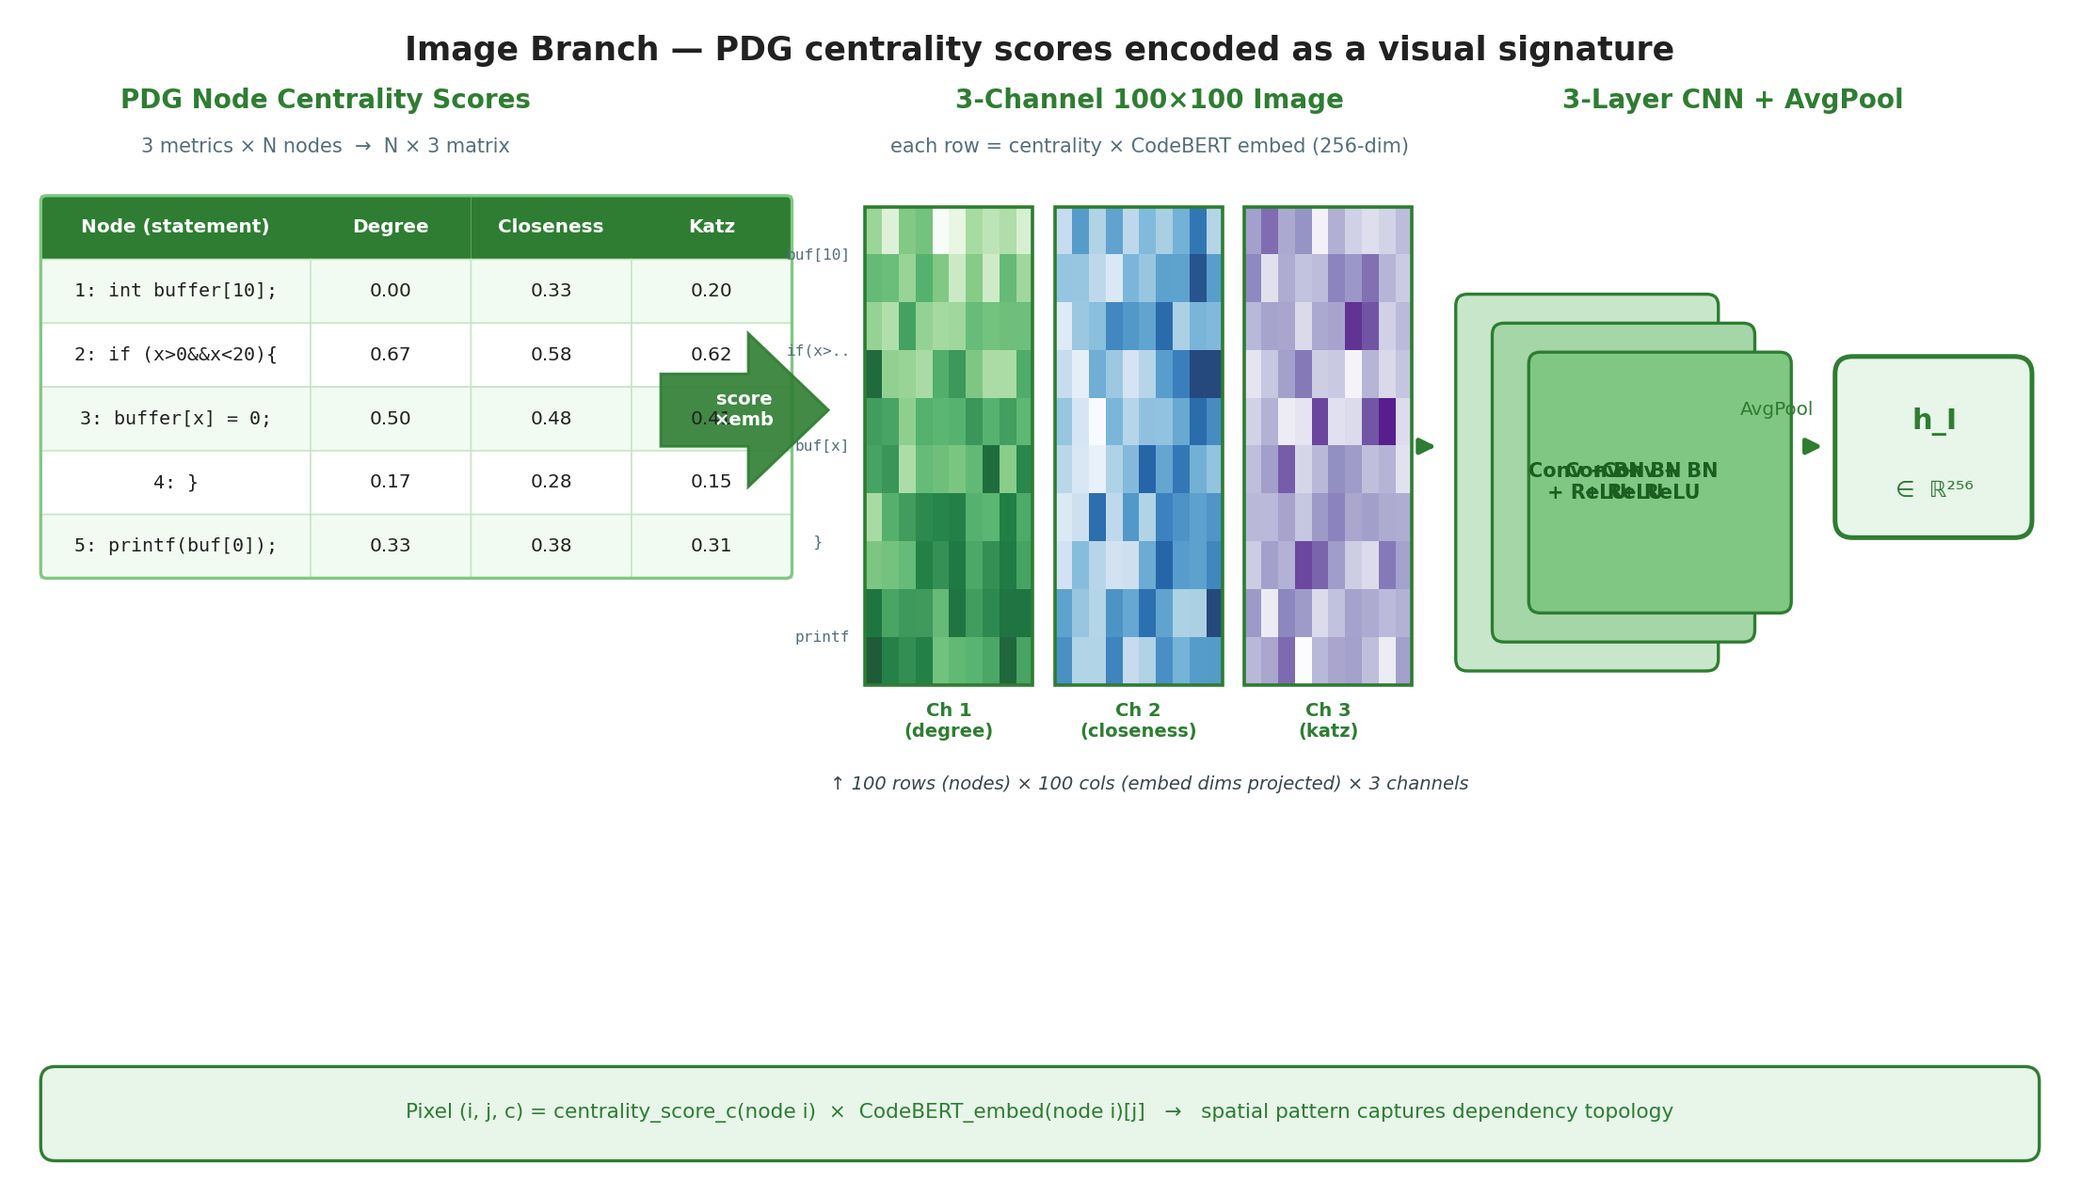
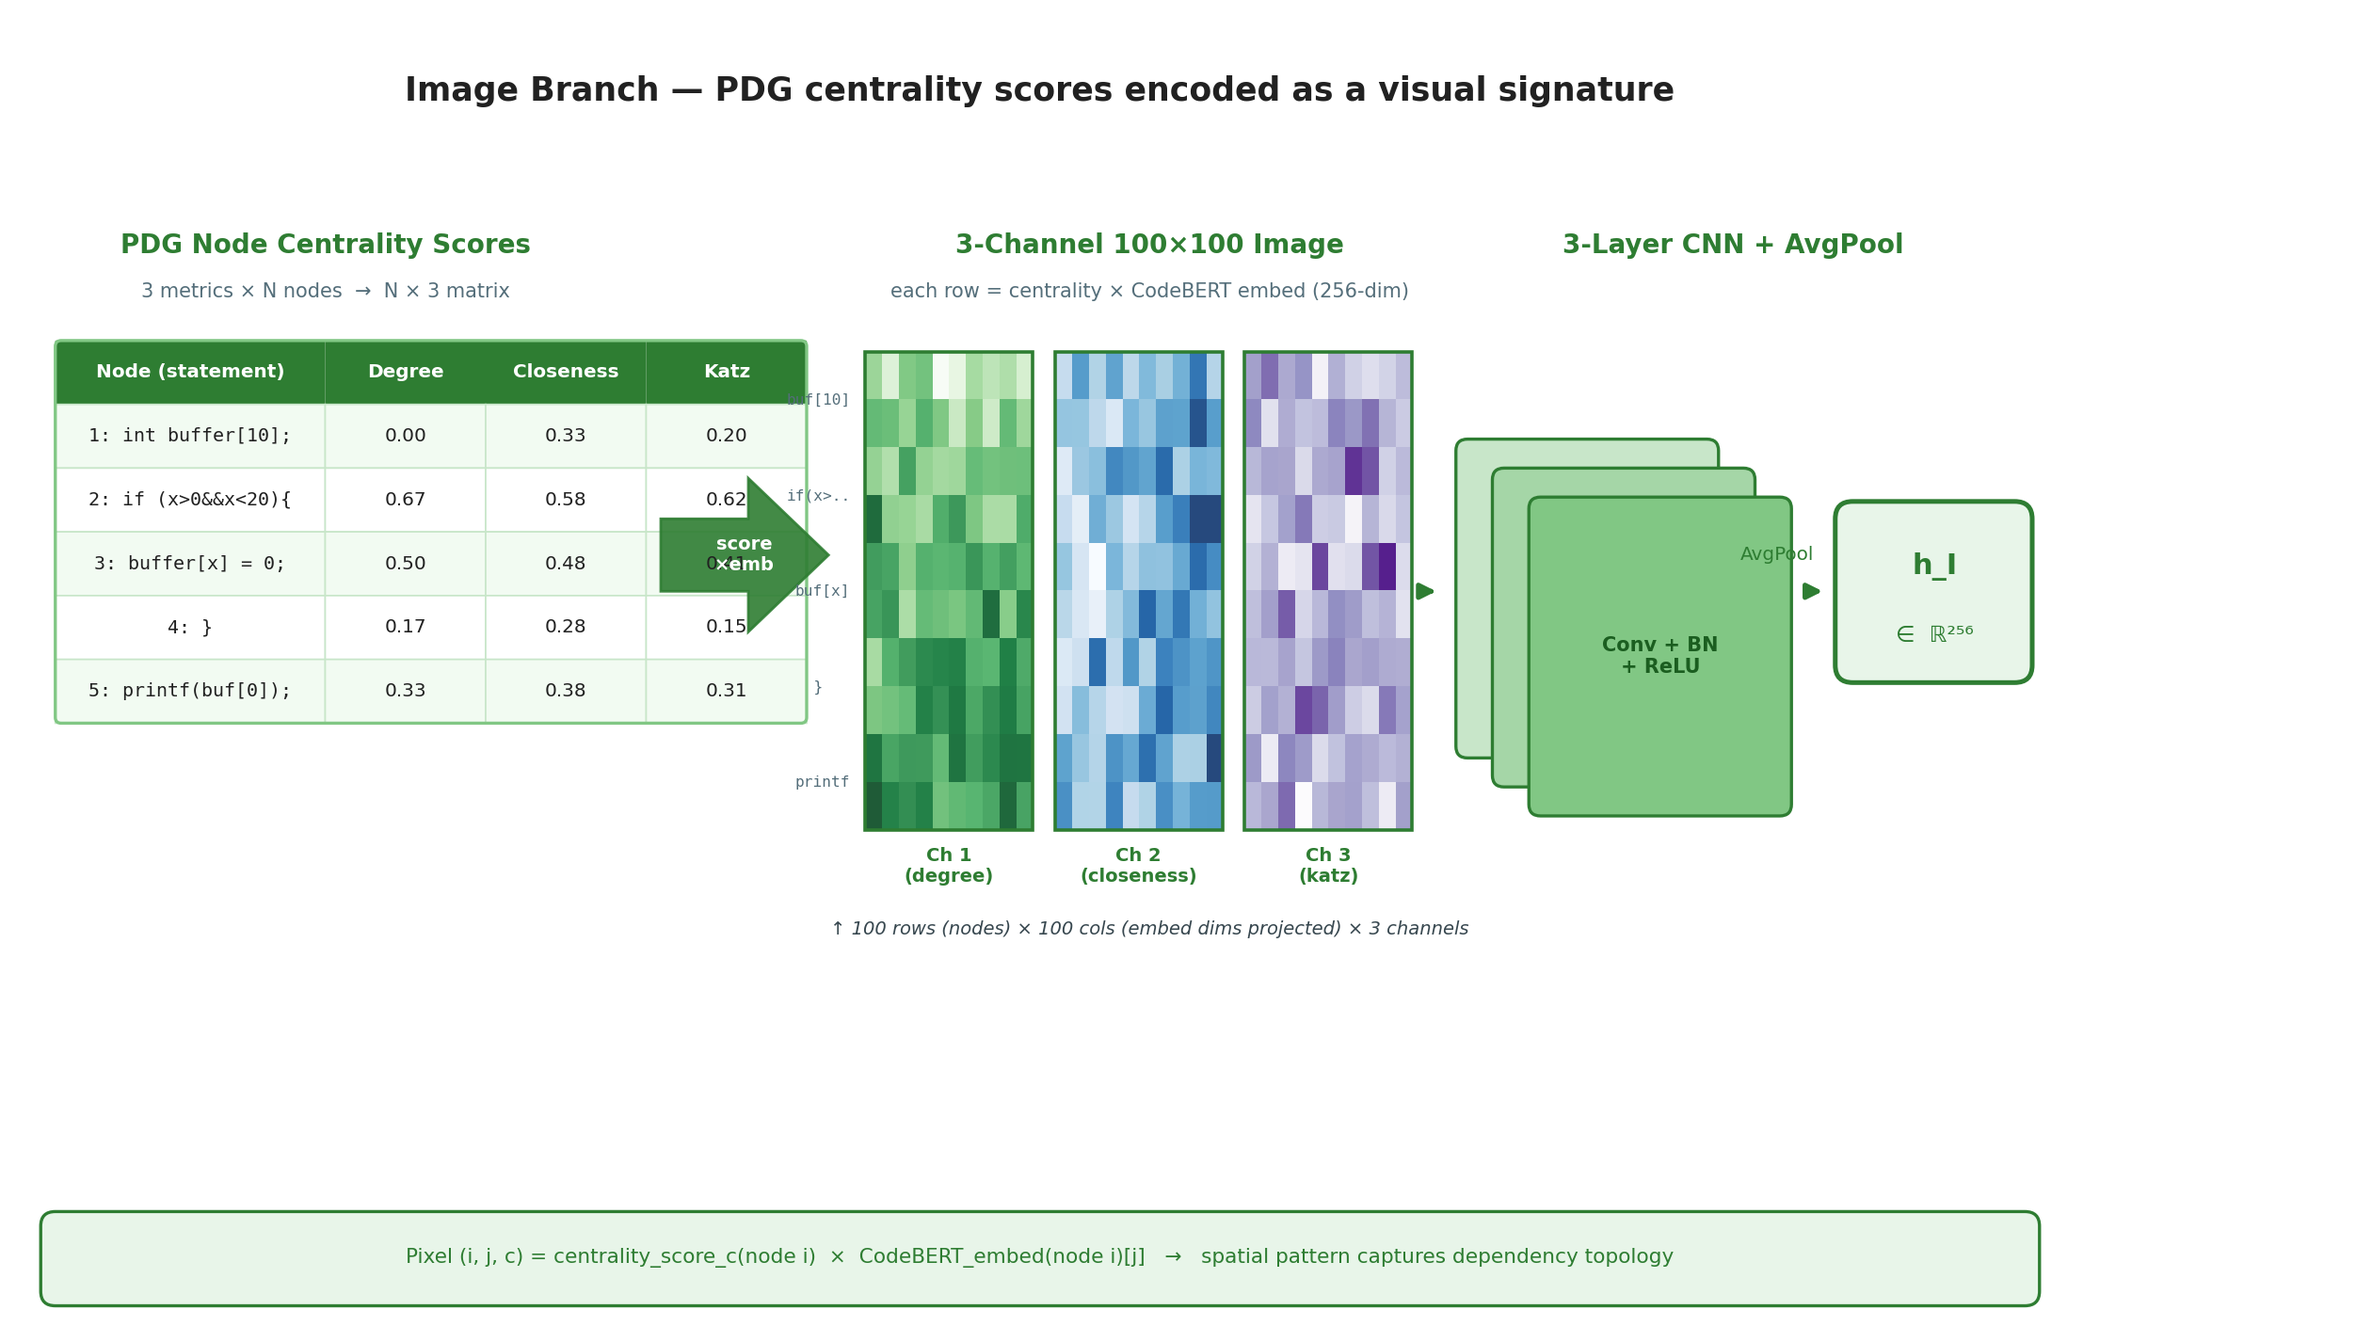
Add script to generate architecture diagram for VulGCL
- Implemented a new Python script `gen_fig03_architecture_ignore.py` to create a visual representation of the VulGCL architecture.
- The diagram illustrates the flow from the Program Dependency Graph (PDG) through three branches (Graph, Image, LLM) to a fusion point and decision-making process.
- Utilizes Matplotlib for rendering and includes detailed annotations for each component.
- Output image saved as `fig03_architecture.png` in the figures directory.

diff --git a/docs/figures/gen_fig06_image_branch.py b/docs/figures/gen_fig06_image_branch.py
@@ -2,25 +2,28 @@
 Run: python docs/figures/gen_fig06_image_branch.py
 Output: docs/figures/fig06_image_branch.png
 """
-import os, sys
-sys.path.insert(0, os.path.dirname(__file__))
-from _figstyle import txt, new_canvas, box, title, save
-from _figstyle import C_I, C_IN, BG_I
-import matplotlib.patches as mpatches
 import numpy as np
+import matplotlib.patches as mpatches
+from _figstyle import C_I, C_IN, BG_I
+from _figstyle import txt, new_canvas, box, title, save
+import os
+import sys
+sys.path.insert(0, os.path.dirname(__file__))
 
 C_HDR = "#2E7D32"
 
-fig, ax = new_canvas(14, 8.0)
-title(ax, 7.0, 7.78, "Image Branch — PDG centrality scores encoded as a visual signature", fs=12.5)
+fig, ax = new_canvas(16, 9.0)
+title(ax, 7.0, 8.50, "Image Branch — PDG centrality scores encoded as a visual signature", fs=12.5)
 
 # ── LEFT: centrality score table ─────────────────────────────────────────────
 txt(ax, 2.1, 7.38, "PDG Node Centrality Scores", ha="center",
-        fontsize=10, fontweight="bold", color=C_I)
+    fontsize=10, fontweight="bold", color=C_I)
 txt(ax, 2.1, 7.08, "3 metrics × N nodes  →  N × 3 matrix",
-        ha="center", fontsize=7.5, color="#546E7A")
+    ha="center", fontsize=7.5, color="#546E7A")
 
-TX = 0.15; ROWY = 6.78; RH = 0.44
+TX = 0.25
+ROWY = 6.78
+RH = 0.44
 CWS_T = [1.85, 1.1, 1.1, 1.1]
 hdrs_T = ["Node (statement)", "Degree", "Closeness", "Katz"]
 trows = [
@@ -35,43 +38,45 @@ hx = TX
 for hdr, cw in zip(hdrs_T, CWS_T):
     box(ax, hx, ROWY-RH, cw, RH, C_HDR, C_HDR, lw=0, rad=0.0, zo=4)
     txt(ax, hx+cw/2, ROWY-RH/2, hdr, ha="center", va="center",
-            fontsize=7.2, fontweight="bold", color="white")
+        fontsize=7.2, fontweight="bold", color="white")
     hx += cw
 
 for ri, row in enumerate(trows):
     ry = ROWY - RH*(ri+2)
-    bg = "#F2FBF2" if ri%2==0 else "white"
+    bg = "#F2FBF2" if ri % 2 == 0 else "white"
     rx = TX
     for ci, (val, cw) in enumerate(zip(row, CWS_T)):
         box(ax, rx, ry, cw, RH, bg, "#C8E6C9", lw=0.6, rad=0.0, zo=4)
         txt(ax, rx+cw/2, ry+RH/2, val, ha="center", va="center", fontsize=7.2,
-                fontfamily="monospace" if ci==0 else "DejaVu Sans", color="#212121")
+            fontfamily="monospace" if ci == 0 else "DejaVu Sans", color="#212121")
         rx += cw
 
 box(ax, TX, ROWY-RH*(len(trows)+1), sum(CWS_T), RH*(len(trows)+1),
-        "none", "#81C784", lw=1.2, rad=0.04, zo=5)
+    "none", "#81C784", lw=1.2, rad=0.04, zo=5)
 
 # ── CENTER ARROW ──────────────────────────────────────────────────────────────
-pts = np.array([[4.4,5.55],[5.0,5.55],[5.0,5.83],[5.55,5.3],
-                [5.0,4.77],[5.0,5.05],[4.4,5.05]])
-ax.fill(pts[:,0], pts[:,1], color=C_I, zorder=8, alpha=0.90)
+pts = np.array([[4.4, 5.55], [5.0, 5.55], [5.0, 5.83], [5.55, 5.3],
+                [5.0, 4.77], [5.0, 5.05], [4.4, 5.05]])
+ax.fill(pts[:, 0], pts[:, 1], color=C_I, zorder=8, alpha=0.90)
 txt(ax, 4.97, 5.3, "score\n×emb", ha="center", va="center",
-        fontsize=7.0, fontweight="bold", color="white")
+    fontsize=7.0, fontweight="bold", color="white")
 
 # ── CENTER: pixel image visualization ─────────────────────────────────────────
 txt(ax, 7.75, 7.38, "3-Channel 100×100 Image", ha="center",
-        fontsize=10, fontweight="bold", color=C_I)
+    fontsize=10, fontweight="bold", color=C_I)
 txt(ax, 7.75, 7.08, "each row = centrality × CodeBERT embed (256-dim)",
-        ha="center", fontsize=7.5, color="#546E7A")
+    ha="center", fontsize=7.5, color="#546E7A")
 
 rng = np.random.default_rng(seed=42)
 # 3 channels simulating the centrality-weighted embedding structure
 ch_data = [
-    np.clip(rng.normal(0.5, 0.15, (10,10)) + np.linspace(0,0.4,10).reshape(-1,1), 0, 1),
-    np.clip(rng.normal(0.4, 0.18, (10,10)) + np.linspace(0,0.3,10).reshape(1,-1), 0, 1),
-    np.clip(rng.normal(0.45,0.12, (10,10)), 0, 1),
+    np.clip(rng.normal(0.5, 0.15, (10, 10)) +
+            np.linspace(0, 0.4, 10).reshape(-1, 1), 0, 1),
+    np.clip(rng.normal(0.4, 0.18, (10, 10)) +
+            np.linspace(0, 0.3, 10).reshape(1, -1), 0, 1),
+    np.clip(rng.normal(0.45, 0.12, (10, 10)), 0, 1),
 ]
-cmaps  = ["Greens", "Blues", "Purples"]
+cmaps = ["Greens", "Blues", "Purples"]
 labels = ["Ch 1\n(degree)", "Ch 2\n(closeness)", "Ch 3\n(katz)"]
 xs = [5.8, 7.1, 8.4]
 for ch, cmap, lbl, xo in zip(ch_data, cmaps, labels, xs):
@@ -80,50 +85,54 @@ for ch, cmap, lbl, xo in zip(ch_data, cmaps, labels, xs):
     ax.add_patch(mpatches.Rectangle((xo, 3.4), 1.15, 3.3, fill=False,
                                     edgecolor=C_I, lw=1.3, zorder=6))
     txt(ax, xo+0.575, 3.15, lbl, ha="center", va="center",
-            fontsize=7.0, color=C_I, fontweight="bold")
+        fontsize=7.0, color=C_I, fontweight="bold")
 
 # row labels on left of image grid
-row_lbls = ["buf[10]","if(x>..","buf[x]","  }   ","printf"]
+row_lbls = ["buf[10]", "if(x>..", "buf[x]", "  }   ", "printf"]
 for ri, rl in enumerate(row_lbls):
     y = 6.37 - ri*0.66
     txt(ax, 5.7, y, rl, ha="right", va="center",
-            fontfamily="monospace", fontsize=5.8, color="#546E7A")
+        fontfamily="monospace", fontsize=5.8, color="#546E7A")
 
 # bracket showing "100 nodes → top 100 by centrality"
 txt(ax, 7.75, 2.72, "↑ 100 rows (nodes) × 100 cols (embed dims projected) × 3 channels",
-        ha="center", va="center", fontsize=7.0, color="#37474F", style="italic")
+    ha="center", va="center", fontsize=7.0, color="#37474F", style="italic")
 
 # ── RIGHT: CNN ────────────────────────────────────────────────────────────────
 txt(ax, 11.75, 7.38, "3-Layer CNN + AvgPool", ha="center",
-        fontsize=10, fontweight="bold", color=C_I)
+    fontsize=10, fontweight="bold", color=C_I)
 
 # arrow from image to CNN
-ax.annotate("", xy=(9.75,5.05), xytext=(9.62,5.05),
+ax.annotate("", xy=(9.75, 5.05), xytext=(9.62, 5.05),
             arrowprops=dict(arrowstyle="-|>", color=C_I, lw=1.8, mutation_scale=12))
 
 # CNN layer stack (3 conv blocks)
 cnn_layers = [
-    (9.85, 3.5, 1.8, 2.6,  "Conv + BN\n+ ReLU",    "#C8E6C9", C_I),
-    (10.1, 3.7, 1.8, 2.2,  "Conv + BN\n+ ReLU",    "#A5D6A7", C_I),
-    (10.35,3.9, 1.8, 1.8,  "Conv + BN\n+ ReLU",    "#81C784", C_I),
+    # (9.85, 3.9, 1.8, 2.2,  "Conv + BN\n+ ReLU",    "#C8E6C9", C_I),
+    (9.85, 3.9, 1.8, 2.2,  "",    "#C8E6C9", C_I),
+    # (10.1, 3.7, 1.8, 2.2,  "Conv + BN\n+ ReLU",    "#A5D6A7", C_I),
+    (10.1, 3.7, 1.8, 2.2,  "",    "#A5D6A7", C_I),
+    (10.35, 3.5, 1.8, 2.2,  "Conv + BN\n+ ReLU",    "#81C784", C_I),
 ]
 for x, y, w, h, lbl, fc, ec in cnn_layers:
     box(ax, x, y, w, h, fc, ec, lw=1.2, rad=0.08, zo=4)
     txt(ax, x+w/2, y+h/2, lbl, ha="center", va="center",
-            fontsize=7.5, color="#1B5E20", fontweight="bold")
+        fontsize=7.5, color="#1B5E20", fontweight="bold")
 
 # AvgPool → h_I
-ax.annotate("", xy=(12.4,5.05), xytext=(12.25,5.05),
+ax.annotate("", xy=(12.4, 5.05), xytext=(12.25, 5.05),
             arrowprops=dict(arrowstyle="-|>", color=C_I, lw=1.8, mutation_scale=12))
 txt(ax, 12.05, 5.3, "AvgPool", ha="center", va="center", fontsize=7.2, color=C_I)
 box(ax, 12.45, 4.42, 1.35, 1.25, BG_I, C_I, lw=1.8, rad=0.12, zo=5)
-txt(ax, 13.13, 5.22, "h_I",    ha="center", va="center", fontsize=11, fontweight="bold", color=C_I)
-txt(ax, 13.13, 4.75, "∈  ℝ²⁵⁶", ha="center", va="center", fontsize=8.5, color=C_I)
+txt(ax, 13.13, 5.22, "h_I",    ha="center", va="center",
+    fontsize=11, fontweight="bold", color=C_I)
+txt(ax, 13.13, 4.75, "∈  ℝ²⁵⁶", ha="center",
+    va="center", fontsize=8.5, color=C_I)
 
 # ── BOTTOM: encoding explanation ──────────────────────────────────────────────
 box(ax, 0.15, 0.12, 13.7, 0.65, BG_I, C_I, lw=1.2, rad=0.1, zo=3)
 txt(ax, 7.0, 0.45, "Pixel (i, j, c) = centrality_score_c(node i)  ×  CodeBERT_embed(node i)[j]"
-        "   →   spatial pattern captures dependency topology",
-        ha="center", va="center", fontsize=7.8, color=C_I)
+    "   →   spatial pattern captures dependency topology",
+    ha="center", va="center", fontsize=7.8, color=C_I)
 
 save(fig, os.path.join(os.path.dirname(__file__), "fig06_image_branch.png"))

diff --git a/docs/figures/gen_fig04_pdg_extraction.py b/docs/figures/gen_fig04_pdg_extraction.py
@@ -2,18 +2,19 @@
 Run: python docs/figures/gen_fig04_pdg_extraction.py
 Output: docs/figures/fig04_pdg_extraction.png
 """
-import os, sys
-sys.path.insert(0, os.path.dirname(__file__))
-from _figstyle import txt, new_canvas, box, title, save
-from _figstyle import C_IN, C_BAD
-import matplotlib.patches as mpatches
 import numpy as np
+import matplotlib.patches as mpatches
+from _figstyle import C_IN, C_BAD
+from _figstyle import txt, new_canvas, box, title, save
+import os
+import sys
+sys.path.insert(0, os.path.dirname(__file__))
 
 C_DATA = "#1565C0"   # solid blue  — data dependency
 C_CTRL = "#E65100"   # dashed orange — control dependency
 C_NODE_E = "#5B9BD5"
 C_NODE_F = "#EBF3FB"
-C_HDR    = "#4472C4"
+C_HDR = "#4472C4"
 
 fig, ax = new_canvas(14, 8.0)
 
@@ -21,7 +22,7 @@ title(ax, 7.0, 7.78, "Program Dependency Graph Construction", fs=13)
 
 # ── LEFT: code panel ──────────────────────────────────────────────────────────
 txt(ax, 2.25, 7.38, "Source C Code", ha="center", fontsize=10,
-        fontweight="bold", color=C_IN)
+    fontweight="bold", color=C_IN)
 
 box(ax, 0.2, 3.9, 4.1, 3.25, "#FAFAFA", "#90A4AE", lw=1.2, rad=0.1, zo=3)
 # fake "title bar"
@@ -39,25 +40,26 @@ code_lines = [
 for i, (line, vuln) in enumerate(code_lines):
     y = 6.55 - i * 0.39
     if vuln:
-        box(ax, 0.25, y - 0.17, 4.0, 0.34, "#FFEBEE", "#FFCDD2", lw=0, rad=0.02, zo=4)
+        box(ax, 0.25, y - 0.17, 4.0, 0.34, "#FFEBEE",
+            "#FFCDD2", lw=0, rad=0.02, zo=4)
     txt(ax, 0.38, y, line, ha="left", va="center",
-            fontfamily="monospace", fontsize=7.7,
-            color=C_BAD if vuln else "#212121",
-            fontweight="bold" if vuln else "normal")
+        fontfamily="monospace", fontsize=7.7,
+        color=C_BAD if vuln else "#212121",
+        fontweight="bold" if vuln else "normal")
     if vuln:
-        txt(ax, 2.55, y - 0.3, "← vulnerable line", ha="center", va="center",
-                fontsize=6.5, color=C_BAD, style="italic")
+        txt(ax, 2.95, y + 0.001, "← vulnerable line", ha="center", va="center",
+            fontsize=6.5, color=C_BAD, style="italic")
 
 # ── CENTER: chunky Joern arrow ────────────────────────────────────────────────
-pts = np.array([[4.45,5.25],[5.15,5.25],[5.15,5.52],[5.72,5.0],
-                [5.15,4.48],[5.15,4.75],[4.45,4.75]])
-ax.fill(pts[:,0], pts[:,1], color="#4472C4", zorder=8, alpha=0.92)
+pts = np.array([[4.45, 5.25], [5.15, 5.25], [5.15, 5.52], [5.72, 5.0],
+                [5.15, 4.48], [5.15, 4.75], [4.45, 4.75]])
+ax.fill(pts[:, 0], pts[:, 1], color="#4472C4", zorder=8, alpha=0.92)
 txt(ax, 5.0, 5.0, "Joern\nStatic\nAnalysis", ha="center", va="center",
-        fontsize=7.4, fontweight="bold", color="white")
+    fontsize=7.4, fontweight="bold", color="white")
 
 # ── RIGHT: PDG graph ──────────────────────────────────────────────────────────
 txt(ax, 10.1, 7.38, "Program Dependency Graph (PDG)", ha="center",
-        fontsize=10, fontweight="bold", color=C_IN)
+    fontsize=10, fontweight="bold", color=C_IN)
 
 R = 0.50
 nodes = {
@@ -68,6 +70,7 @@ nodes = {
     5: (7.45,  3.9, "5: printf\n(\"%d\",\nbuffer[0]);"),
     6: (13.05, 4.5, "6: }"),
 }
+
 
 def edge(src, dst, col, dashed=False, rad=0.15, lbl=None, lx=None, ly=None):
     x1, y1 = nodes[src][0], nodes[src][1]
@@ -81,19 +84,20 @@ def edge(src, dst, col, dashed=False, rad=0.15, lbl=None, lx=None, ly=None):
         shrinkA=34, shrinkB=34, zorder=5))
     if lbl and lx is not None:
         txt(ax, lx, ly, lbl, ha="center", va="center",
-                fontsize=6.4, color=col, fontweight="bold")
+            fontsize=6.4, color=col, fontweight="bold")
+
 
 # data dep (solid blue)
-edge(1, 2, C_DATA, rad= 0.08, lbl="data dep", lx=7.75, ly=6.2)
+edge(1, 2, C_DATA, rad=0.08, lbl="data dep", lx=7.75, ly=6.2)
 edge(1, 3, C_DATA, rad=-0.22, lbl="data dep", lx=9.6,  ly=6.75)
 edge(2, 3, C_DATA, rad=-0.1,  lbl="data dep", lx=10.6, ly=6.05)
-edge(1, 5, C_DATA, rad= 0.18, lbl="data dep", lx=6.5,  ly=5.1)
-edge(2, 5, C_DATA, rad= 0.1,  lbl="data dep", lx=7.95, ly=4.55)
+edge(1, 5, C_DATA, rad=0.18, lbl="data dep", lx=6.5,  ly=5.1)
+edge(2, 5, C_DATA, rad=0.1,  lbl="data dep", lx=7.95, ly=4.55)
 
 # ctrl dep (dashed orange)
-edge(2, 4, C_CTRL, dashed=True, rad= 0.15, lbl="ctrl dep", lx=10.5, ly=4.9)
+edge(2, 4, C_CTRL, dashed=True, rad=0.15, lbl="ctrl dep", lx=10.5, ly=4.9)
 edge(2, 5, C_CTRL, dashed=True, rad=-0.15, lbl="ctrl dep", lx=8.75, ly=4.45)
-edge(4, 6, C_CTRL, dashed=True, rad= 0.1,  lbl="ctrl dep", lx=12.45, ly=4.55)
+edge(4, 6, C_CTRL, dashed=True, rad=0.1,  lbl="ctrl dep", lx=12.45, ly=4.55)
 
 # draw circles on top of edges
 for nid, (nx, ny, lbl) in nodes.items():
@@ -101,12 +105,12 @@ for nid, (nx, ny, lbl) in nodes.items():
                                  facecolor=C_NODE_F, edgecolor=C_NODE_E,
                                  lw=1.8, zorder=6))
     txt(ax, nx, ny, lbl, ha="center", va="center",
-            fontfamily="monospace", fontsize=6.0, color="#212121", zorder=7)
+        fontfamily="monospace", fontsize=6.0, color="#212121", zorder=7)
 
 # legend (top-right of graph area)
 for i, (col, ls, lbl) in enumerate([
         (C_DATA, "solid",      "data dep"),
-        (C_CTRL, (0,(4,3)),    "ctrl dep")]):
+        (C_CTRL, (0, (4, 3)),    "ctrl dep")]):
     ly = 7.1 - i * 0.38
     ax.plot([12.25, 12.8], [ly, ly], color=col, lw=1.8, linestyle=ls, zorder=9)
     ax.annotate("", xy=(12.82, ly), xytext=(12.62, ly),
@@ -115,11 +119,11 @@ for i, (col, ls, lbl) in enumerate([
     txt(ax, 12.9, ly, lbl, ha="left", va="center", fontsize=7.2, color=col)
 
 # ── BOTTOM: Node table ────────────────────────────────────────────────────────
-TX   = 5.85
-TW   = 7.9
+TX = 5.85
+TW = 7.9
 ROWY = 3.5
-RH   = 0.46
-CWS  = [0.75, 3.55, 3.6]     # Node ID | Statement | Type
+RH = 0.46
+CWS = [0.75, 3.55, 3.6]     # Node ID | Statement | Type
 
 headers = ["Node ID", "Statement", "Type"]
 rows = [
@@ -136,22 +140,23 @@ hx = TX
 for hdr, cw in zip(headers, CWS):
     box(ax, hx, ROWY - RH, cw, RH, C_HDR, C_HDR, lw=0, rad=0.0, zo=4)
     txt(ax, hx + cw/2, ROWY - RH/2, hdr, ha="center", va="center",
-            fontsize=8, fontweight="bold", color="white")
+        fontsize=8, fontweight="bold", color="white")
     hx += cw
 
 # data rows
 for ri, (nid, stmt, ntype) in enumerate(rows):
-    ry  = ROWY - RH * (ri + 2)
-    bg  = "#FFEBEE" if "Vulnerable" in ntype else ("#F7F7F7" if ri % 2 == 0 else "white")
-    rx  = TX
+    ry = ROWY - RH * (ri + 2)
+    bg = "#FFEBEE" if "Vulnerable" in ntype else (
+        "#F7F7F7" if ri % 2 == 0 else "white")
+    rx = TX
     for ci, (val, cw) in enumerate(zip([nid, stmt, ntype], CWS)):
         box(ax, rx, ry, cw, RH, bg, "#CFD8DC", lw=0.6, rad=0.0, zo=4)
         fc = C_BAD if ("Vulnerable" in ntype and ci == 2) else "#212121"
         fw = "bold" if ("Vulnerable" in ntype and ci == 2) else "normal"
         txt(ax, rx + cw/2, ry + RH/2, val, ha="center", va="center",
-                fontsize=7.3,
-                fontfamily="monospace" if ci == 1 else "DejaVu Sans",
-                color=fc, fontweight=fw)
+            fontsize=7.3,
+            fontfamily="monospace" if ci == 1 else "DejaVu Sans",
+            color=fc, fontweight=fw)
         rx += cw
 
 # outer table border
